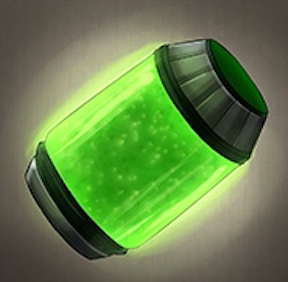
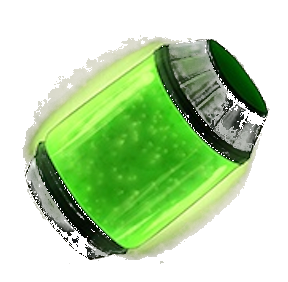
Replace bomb pickup sprite with custom bomb image, adjust pickup scale

diff --git a/Assets/Tests/EditMode/PickupPresentationTests.cs b/Assets/Tests/EditMode/PickupPresentationTests.cs
@@ -1,4 +1,5 @@
 using NUnit.Framework;
+using UnityEditor;
 using UnityEngine;
 using Wanwan.Runtime;
 
@@ -7,13 +8,14 @@ namespace Wanwan.Tests.EditMode
     public class PickupPresentationTests
     {
         [Test]
-        public void PickupPresentation_UnifiesPickupSizesAndDoublesBomb()
+        public void PickupPresentation_KeepsBombReadableWithoutOversizing()
         {
-            Assert.That(PickupPresentation.BombVisualScale, Is.EqualTo(1.56f).Within(0.001f));
+            Assert.That(PickupPresentation.BombVisualScale, Is.EqualTo(0.92f).Within(0.001f));
             Assert.That(PickupPresentation.AmmoPackVisualScale, Is.LessThan(0.8f));
             Assert.That(PickupPresentation.PowerCapsuleVisualScale, Is.EqualTo(PickupPresentation.AmmoPackVisualScale).Within(0.001f));
             Assert.That(PickupPresentation.HealthPickupVisualScale, Is.EqualTo(PickupPresentation.AmmoPackVisualScale).Within(0.001f));
             Assert.That(PickupPresentation.BombColliderRadius, Is.GreaterThan(PickupPresentation.AmmoPackColliderRadius));
+            Assert.That(PickupPresentation.BombColliderRadius, Is.LessThan(0.7f));
         }
 
         [Test]
@@ -43,6 +45,17 @@ namespace Wanwan.Tests.EditMode
 
             Assert.That(visiblePixels, Is.GreaterThan(4800));
             Assert.That(brightPixels, Is.GreaterThan(260));
+        }
+
+        [Test]
+        public void SciFiBombResource_HasTransparentBackground()
+        {
+            Texture2D texture = Resources.Load<Texture2D>(SciFiResourcePaths.PickupBomb);
+            TextureImporter importer = AssetImporter.GetAtPath("Assets/Resources/SciFi/Pickups/bomb_pickup.png") as TextureImporter;
+
+            Assert.That(texture, Is.Not.Null);
+            Assert.That(importer, Is.Not.Null);
+            Assert.That(importer.DoesSourceTextureHaveAlpha(), Is.True);
         }
     }
 }

diff --git a/Assets/Scripts/Runtime/PickupPresentation.cs b/Assets/Scripts/Runtime/PickupPresentation.cs
@@ -2,11 +2,11 @@ namespace Wanwan.Runtime
 {
     public static class PickupPresentation
     {
-        public const float BombVisualScale = 1.56f;
+        public const float BombVisualScale = 0.92f;
         public const float AmmoPackVisualScale = 0.68f;
         public const float PowerCapsuleVisualScale = AmmoPackVisualScale;
         public const float HealthPickupVisualScale = AmmoPackVisualScale;
-        public const float BombColliderRadius = 0.9f;
+        public const float BombColliderRadius = 0.56f;
         public const float AmmoPackColliderRadius = 0.46f;
         public const float PowerCapsuleColliderRadius = 0.46f;
         public const float HealthPickupColliderRadius = 0.46f;
